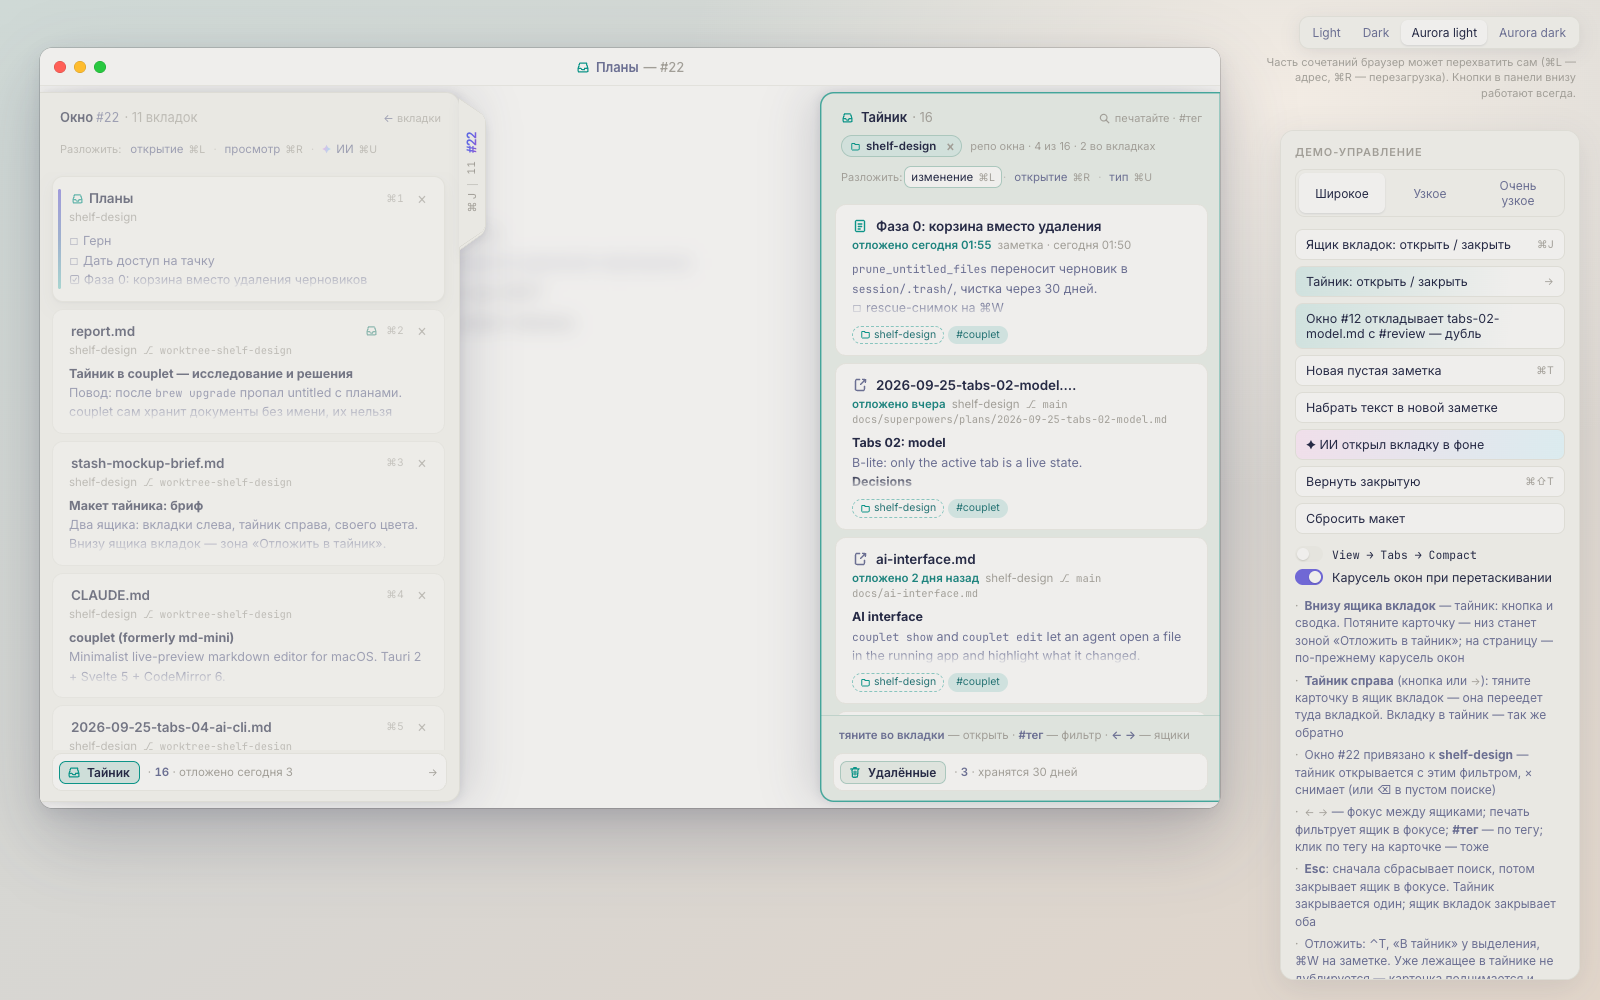
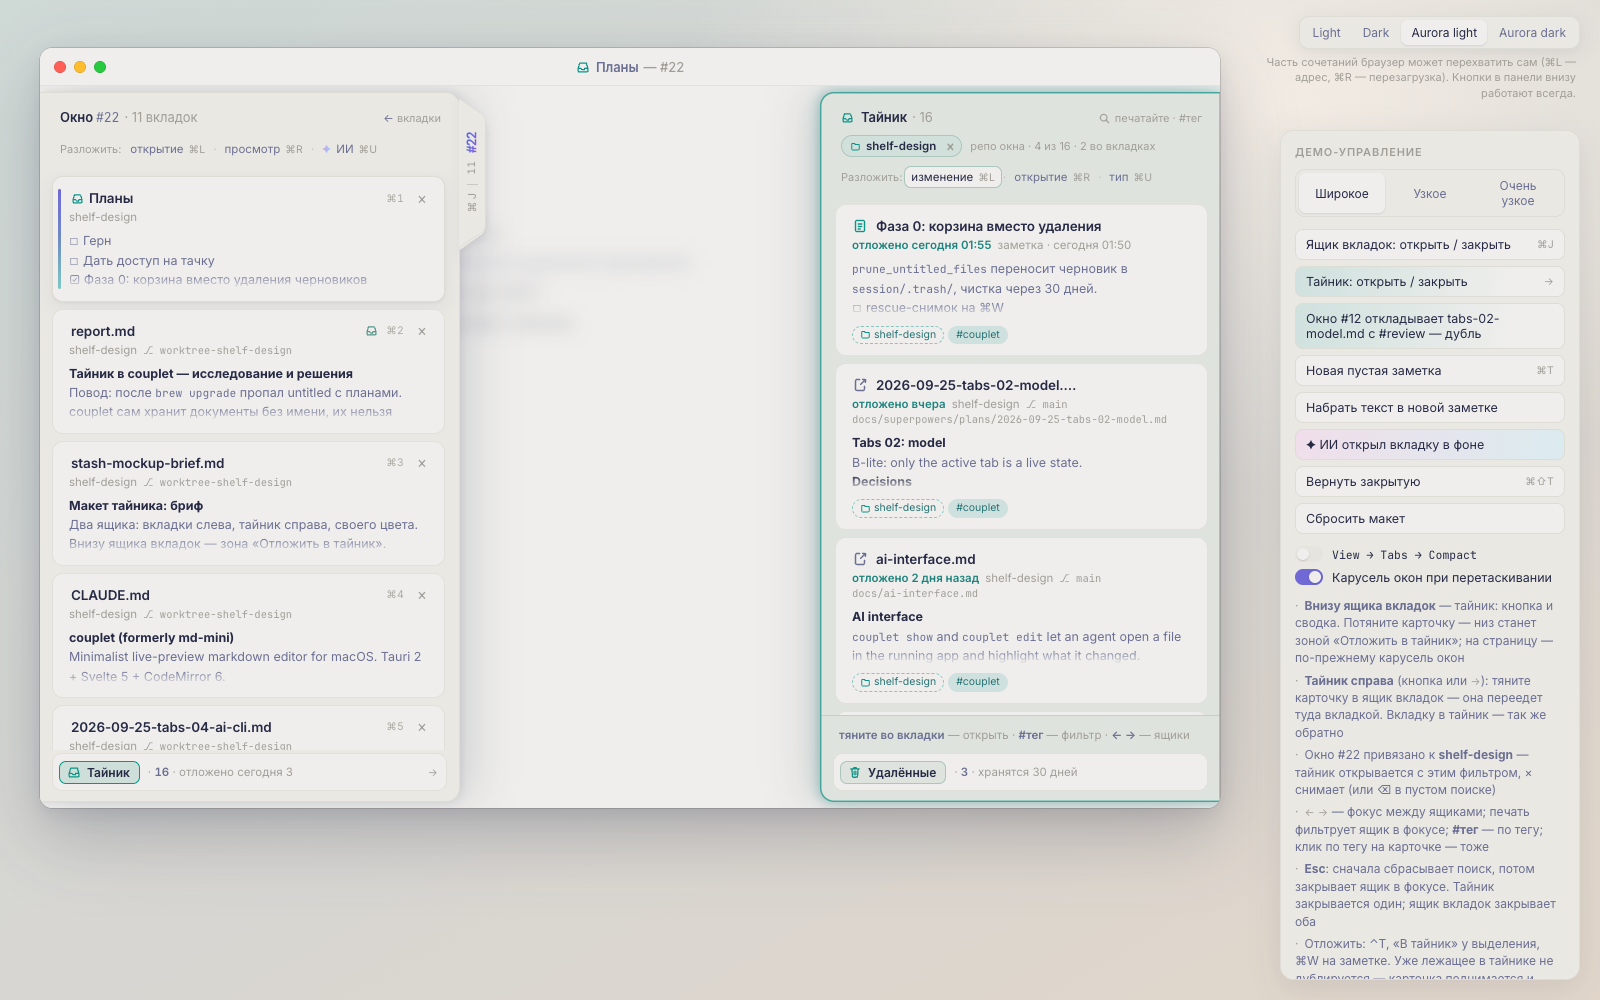
docs(stash): mockup v6 — focus by glowing rim, no dimming
With both drawers open the unfocused drawer keeps full opacity and its
plain border; focus shows only as a glowing rim in the drawer's own colour
(tabs: --brand-a, stash: --stash) — inset 1.5px at 65% plus a 16px outer
glow at 30%. The «← вкладки» / «тайник →» hints stay.

diff --git a/docs/investigations/2026-09-26-stash-mockup/stash-drawers.html b/docs/investigations/2026-09-26-stash-mockup/stash-drawers.html
@@ -709,17 +709,16 @@ body.compact .card-path { display: none; }
 }
 .st-foot b { color: var(--text-subtle); font-weight: 600; }
 
-/* Two drawers open: ←/→ move the focus. The focused drawer gets a ring in its own
-   colour; the other one dims a little and its header says how to get back. */
+/* Two drawers open: ←/→ move the focus. Focus is shown ONLY by a glowing rim in the
+   drawer's own colour (tabs: --brand-a violet, stash: --stash); the other drawer keeps
+   full opacity and its plain border, and its header says how to get back. */
 #drawer { --acc: var(--brand-a); }
 .stash-drawer { --acc: var(--stash); }
 .drawer::after {
   content: ''; position: absolute; inset: -1px; border-radius: inherit; pointer-events: none; opacity: 0; transition: opacity .2s;
-  box-shadow: inset 0 0 0 1.5px color-mix(in oklab, var(--acc) 65%, transparent);
+  box-shadow: inset 0 0 0 1.5px color-mix(in oklab, var(--acc) 65%, transparent), 0 0 16px 1px color-mix(in oklab, var(--acc) 30%, transparent);
 }
 .stash-open .drawer.focused::after { opacity: 1; }
-.drawer .drawer-head, .drawer .tab-list { transition: opacity .2s; }
-.stash-open .drawer:not(.focused) .drawer-head, .stash-open .drawer:not(.focused) .tab-list { opacity: .6; }
 .drawer-title .focus-hint { display: none; font-size: 11px; line-height: 1.4; color: var(--text-muted); white-space: nowrap; }
 .drawer-title .focus-hint kbd { font-size: 11px; color: var(--text-subtle); }
 .stash-open .drawer:not(.focused) .drawer-title .type-hint, .stash-open .drawer:not(.focused) .drawer-title .sel-hint { display: none; }
